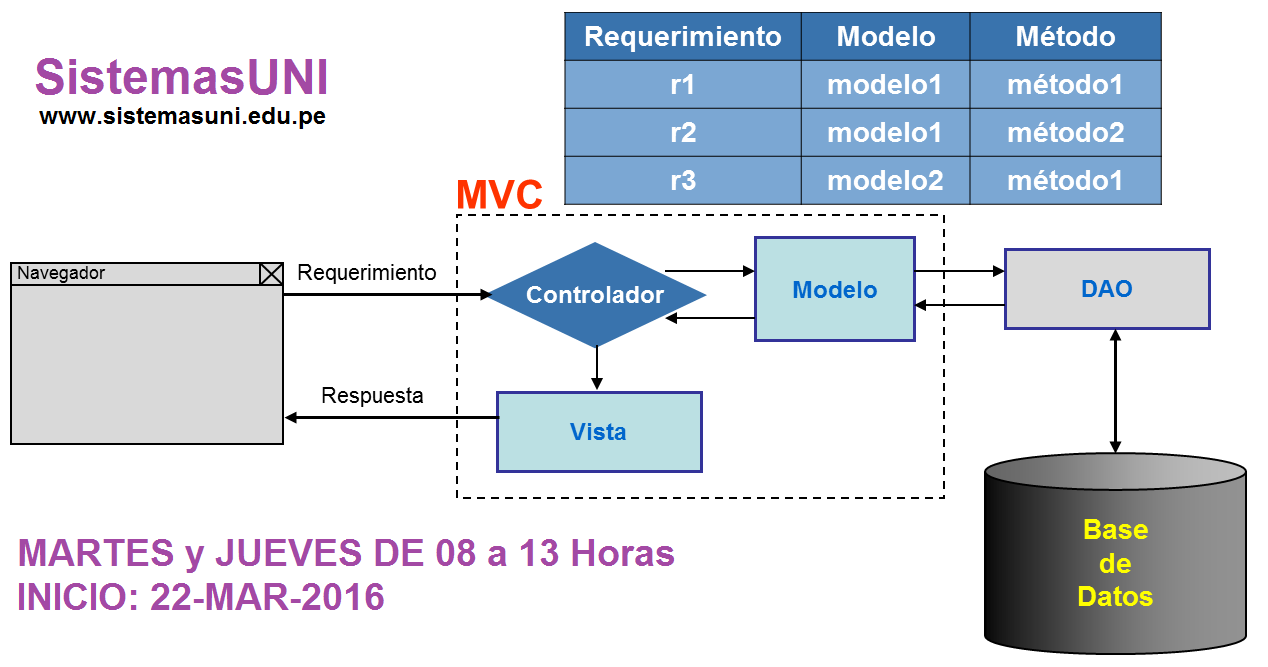
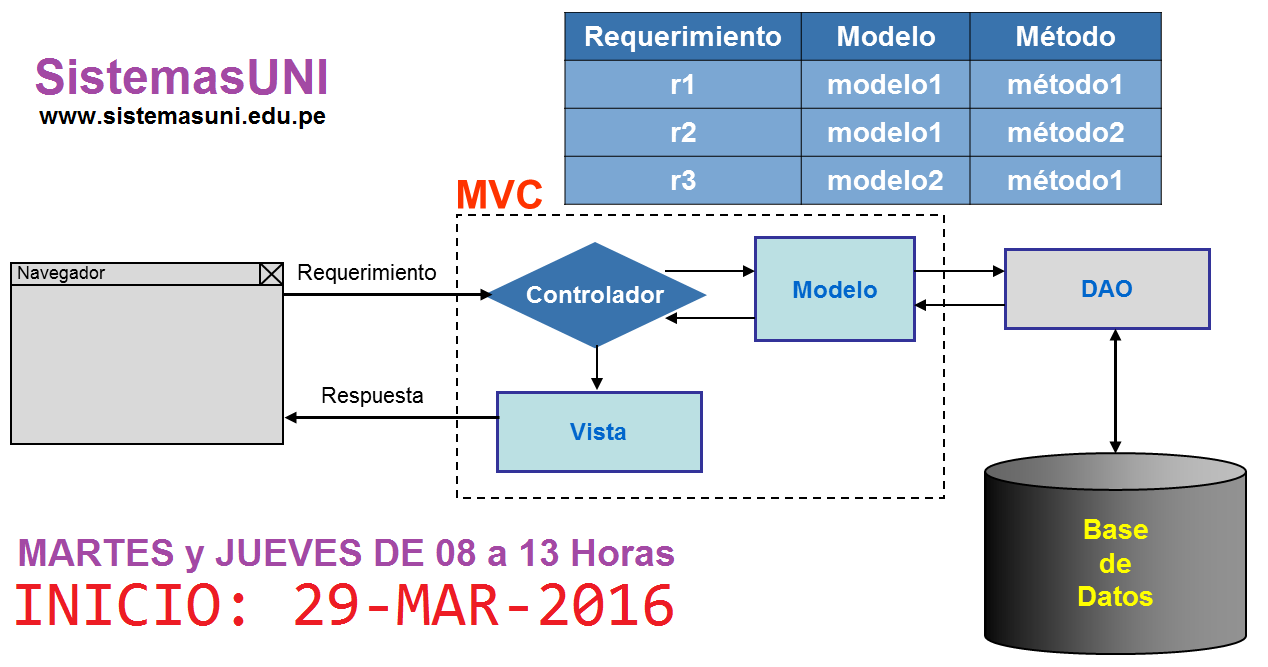
Actualizando el repositorio.

Changed region(s): [[0.0, 0.8696, 0.5536, 0.9595]]

diff --git a/README.md b/README.md
@@ -4,7 +4,7 @@
 
 - Lugar: SistemasUNI
 - Horario: MARTES y JUEVES de 8 a 13 Horas
-- Inicio: 22-MAR-2016
+- Inicio: 29-MAR-2016
 - Dirección: https://goo.gl/maps/98vwAt9NZMU2
 - Contenido: http://www.sistemasuni.edu.pe/dcursos/cjavadesapliweb.html
 - Página: http://gcoronelc.github.io/SISTUNI_JAVA_WEB_002/
@@ -30,12 +30,15 @@
 
 # CLASE 01
 
-- Fecha: 22-MAR-2016
+- Fecha: 29-MAR-2016
 - Introducción a Git
 - Servlets
 - JSP
 - MVC
 
+# CLASE 02
+
+- Fecha: 31-MAR-2016
 
 
 
